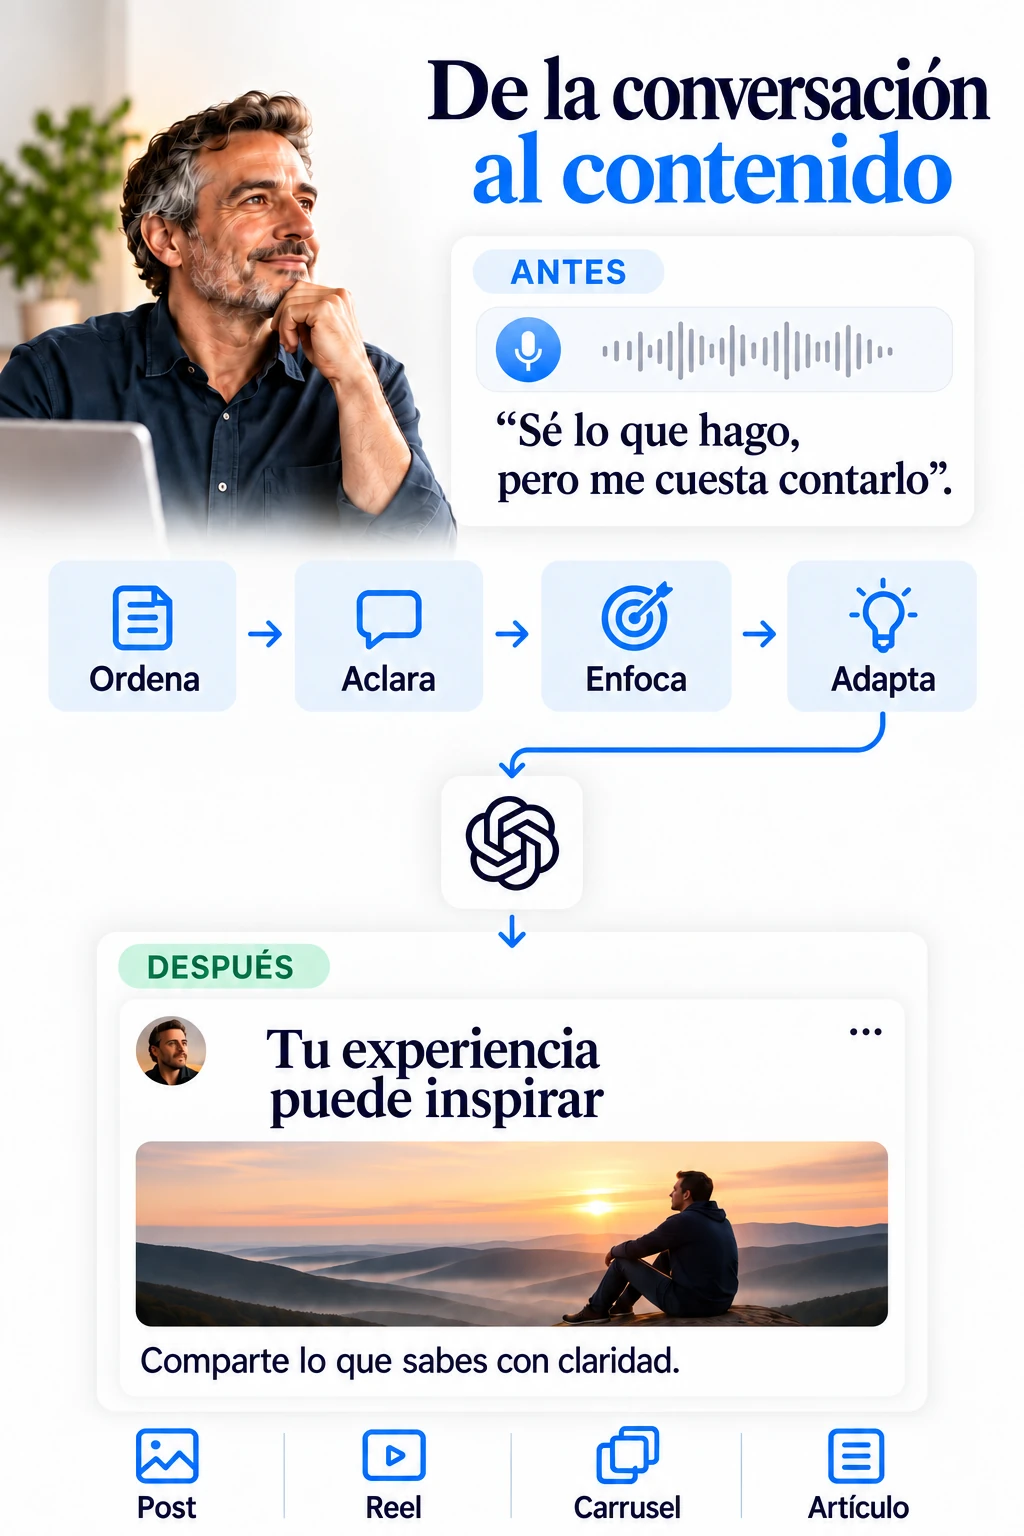
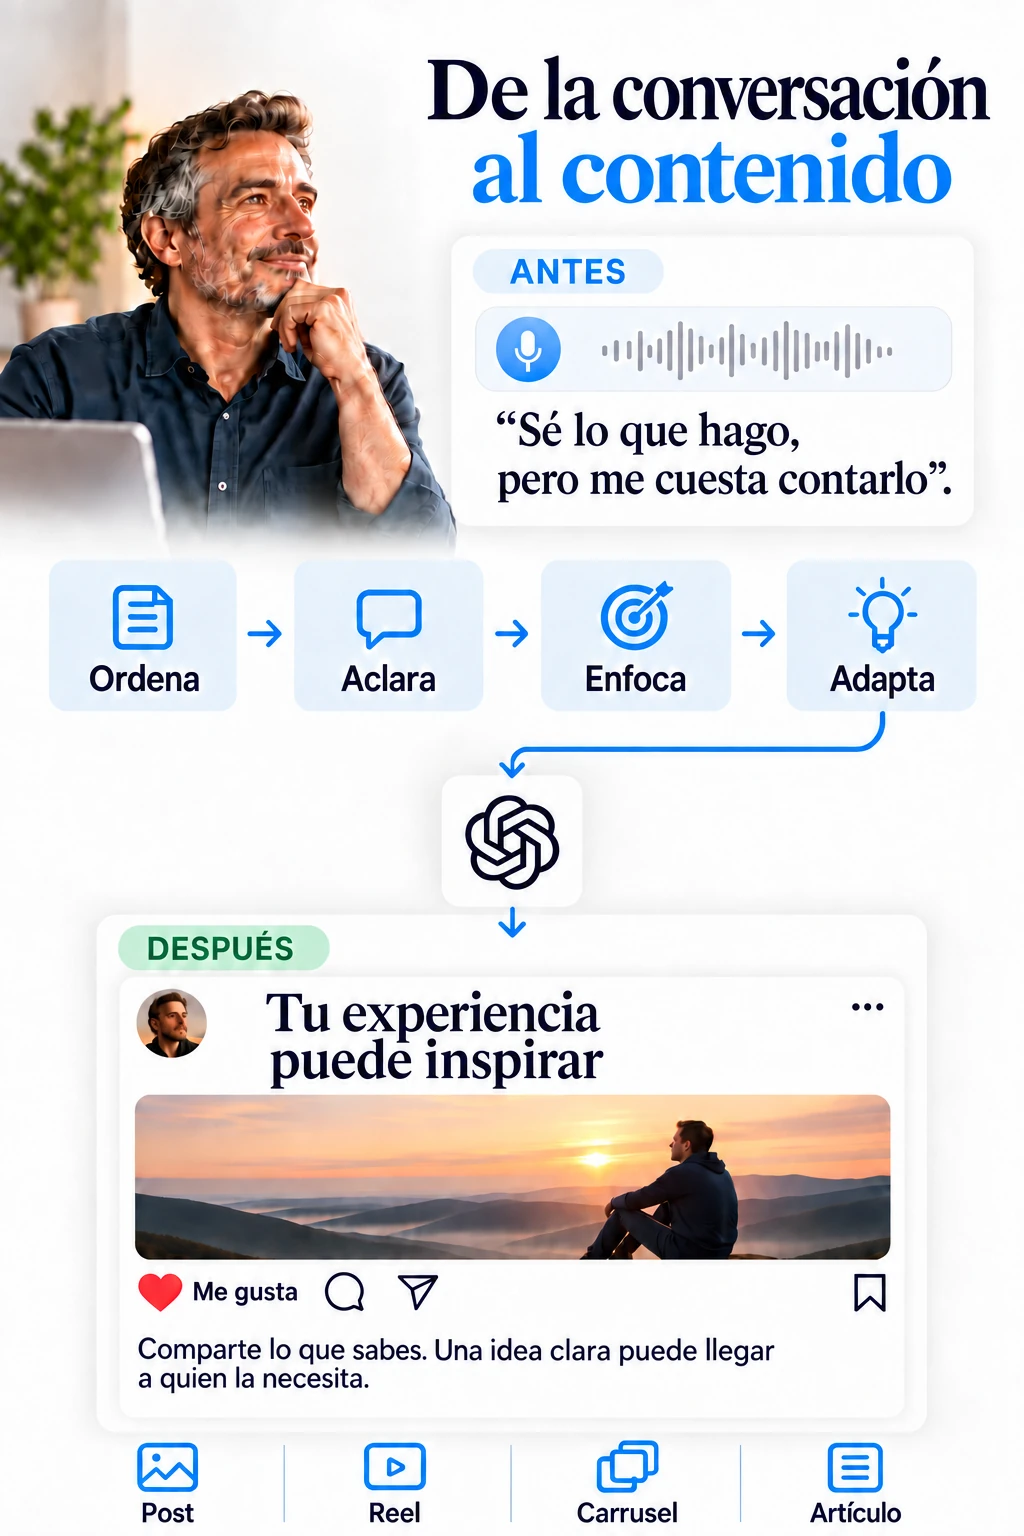
Show Instagram post result in first example

diff --git a/index.html b/index.html
@@ -33,7 +33,7 @@ section{padding:82px 0;border-top:1px solid var(--line)}.section-head{max-width:
 <section id="ayuda"><div class="wrap"><div class="section-head"><div class="eyebrow">Lo que hago</div><h2>Cómo puedo ayudarte</h2><p>No parto de una herramienta. Parto de lo que necesitas explicar, crear, ordenar o mejorar.</p></div><div class="two reveal"><div class="panel"><h3>Comunicación + Contenido + IA</h3><div class="services"><div class="service"><h3>Comunicación</h3><p>Aclaro el mensaje, ordeno la estructura y ajusto el tono para que lo que haces se entienda mejor.</p></div><div class="service"><h3>Contenido</h3><p>Convierto ideas, entrevistas, clases o documentos en piezas útiles para publicar: guiones, publicaciones y videos, desde la idea hasta la edición final.</p></div><div class="service"><h3>Procesos</h3><p>Reviso tareas repetitivas y flujos que podrían hacerse de una forma más simple.</p></div></div></div><div class="panel speaker"><div class="eyebrow">Conferencia + Taller</div><div class="mini"><h3>Después del quiebre</h3><p>Una conferencia sobre cambio, reconstrucción y rumbo.</p></div><div class="mini"><h3>Método R4</h3><p>Un taller práctico para llevar esa conversación a decisiones concretas.</p></div><a class="btn btn-primary" href="#contacto">Consultar conferencia y taller</a></div></div></div></section>
 <section class="blue-section" id="trabajo"><canvas class="network-canvas" aria-hidden="true"></canvas><div class="wrap"><div class="section-head"><div class="eyebrow">Cómo trabajo</div><h2>Primero, entender</h2><p>Trabajo con el Método R4 para ordenar el problema antes de actuar.</p></div><div class="flow reveal"><div class="step"><b>R1 · Reconocer</b><h3>¿Qué está pasando realmente?</h3><p>Entendemos qué cambió, qué no funciona y dónde aparece la fricción.</p></div><div class="step"><b>R2 · Rescatar</b><h3>¿Con qué contamos hoy?</h3><p>Revisamos lo que ya existe, funciona y puede aprovecharse.</p></div><div class="step"><b>R3 · Redefinir</b><h3>¿Qué queremos conseguir ahora?</h3><p>Definimos hacia dónde vale la pena ir con la realidad y los recursos actuales.</p></div><div class="step"><b>R4 · Actuar</b><h3>¿Cuál es el siguiente paso?</h3><p>Convertimos la claridad en una acción concreta: contenido, video, mejora de proceso o automatización.</p></div></div><a class="btn btn-light" href="https://wa.me/573153999299?text=Hola%2C%20Santiago.%20Quiero%20agendar%20una%20conversaci%C3%B3n%20de%2030%20minutos%20para%20contarte%20qu%C3%A9%20est%C3%A1%20pasando%20en%20mi%20negocio." target="_blank" rel="noopener">Hablemos por WhatsApp</a></div></section>
 <section id="recorrido"><div class="wrap"><div class="section-head"><div class="eyebrow">Recorre las demos</div><h2>De una conversación a algo funcionando</h2><p>No necesitas llegar con la solución definida. Empezamos por entender el problema y avanzamos por etapas concretas.</p></div><div class="journey"><article class="journey-step reveal"><div class="journey-num">01</div><div class="journey-copy"><h3>Conversamos 30 minutos</h3><p>Me cuentas qué estás intentando hacer, dónde se traba y qué resultado necesitas.</p></div><div class="journey-visual"><div class="mock-window"><div class="mock-top"><i></i><i></i><i></i></div><div class="chat-body"><div class="chat-row"><div class="chat-avatar"></div><div class="chat-msg"></div></div><div class="chat-row me"><div class="chat-msg"></div></div><div class="chat-row"><div class="chat-avatar"></div><div class="chat-msg"></div></div></div><div class="tag-strip"><span>Contexto</span><span>Problema</span><span>Objetivo</span></div></div></div></article><article class="journey-step reveal"><div class="journey-num">02</div><div class="journey-copy"><h3>Ordenamos con R4</h3><p>Reconocemos qué pasa, rescatamos lo que ya sirve, redefinimos el rumbo y elegimos el siguiente paso.</p></div><div class="journey-visual"><div class="mock-window"><div class="mock-top"><i></i><i></i><i></i></div><div class="r4-board"><div class="r4-mini"><b>R1 · Reconocer</b><span></span><span></span></div><div class="r4-mini"><b>R2 · Rescatar</b><span></span><span></span></div><div class="r4-mini"><b>R3 · Redefinir</b><span></span><span></span></div><div class="r4-mini"><b>R4 · Actuar</b><span></span><span></span></div></div></div></div></article><article class="journey-step reveal"><div class="journey-num">03</div><div class="journey-copy"><h3>Construimos una primera versión</h3><p>Puede ser un guion, una pieza de contenido, un video o una mejora concreta de proceso.</p></div><div class="journey-visual"><div class="mock-window"><div class="mock-top"><i></i><i></i><i></i></div><div class="workspace"><div class="script-card"><b>Guion / contenido</b><div class="script-line"></div><div class="script-line"></div><div class="script-line"></div></div><div class="video-card"><div class="play">▶</div><div class="timeline-mini"></div></div></div></div></div></article><article class="journey-step reveal"><div class="journey-num">04</div><div class="journey-copy"><h3>Probamos, ajustamos y decides</h3><p>Antes de construir de más, vemos qué funciona y qué vale la pena llevar a una versión final.</p></div><div class="journey-visual"><div class="mock-window"><div class="mock-top"><i></i><i></i><i></i></div><div class="review-board"><div class="review-row"><strong>Versión 1</strong><div class="bar" style="--w:52%"></div><div class="ok">1</div></div><div class="review-row"><strong>Ajuste</strong><div class="bar" style="--w:76%"></div><div class="ok">2</div></div><div class="review-row"><strong>Validado</strong><div class="bar" style="--w:100%"></div><div class="ok">✓</div></div></div></div></div></article></div></div></section>
-<section class="blue-section" id="ejemplos"><canvas class="network-canvas" aria-hidden="true"></canvas><div class="wrap"><div class="section-head"><div class="eyebrow">Ejemplos</div><h2>Mira lo que puede cambiar</h2><p>Tres ejemplos de lo que podemos hacer a partir de una necesidad concreta.</p></div><div class="examples reveal"><article class="example"><div class="example-visual" style="height:auto;aspect-ratio:9/16;padding:12px;background:#F4F7F8"><a href="assets/una-conversacion-contenido-flujo.webp?v=39300238" target="_blank" rel="noopener" aria-label="Ampliar el ejemplo de conversación a contenido" style="display:block;width:100%;height:100%"><img src="assets/una-conversacion-contenido-flujo.webp?v=39300238" alt="De la conversación al contenido: Ordena, Aclara, Enfoca y Adapta; después ChatGPT ayuda a crear post, reel, carrusel y artículo" loading="lazy" decoding="async" style="display:block;width:100%;height:100%;object-fit:contain"></a></div></article><article class="example"><div class="example-visual" style="height:auto;aspect-ratio:9/16;background:#0A2540"><video controls playsinline preload="metadata" poster="assets/ejemplo-pagina-web-poster.jpg" aria-label="Ejemplo de una idea convertida en una página web" style="display:block;width:100%;height:100%;object-fit:contain"><source src="assets/ejemplo-pagina-web.mp4?v=53d35bca" type="video/mp4">Tu navegador no puede reproducir este video.</video></div></article><article class="example"><div class="example-visual time-visual" role="img" aria-label="Tiempos aproximados según la experiencia de Santiago. Boletín diario de Noticias del SENA: antes al menos 2 horas, ahora unos 15 minutos. Acta semanal del Consejo de Redacción: antes al menos 3 horas, ahora entre 10 y 20 minutos."><div class="time-heading">Procesos del SENA <span>Antes → Ahora</span></div><div class="time-case"><h3>Boletín diario de noticias</h3><div class="time-row"><span>Antes</span><div class="time-track"><i style="width:67%"></i></div><strong>≥ 2 h</strong></div><div class="time-row current"><span>Ahora</span><div class="time-track"><i style="width:8.3%"></i></div><strong>≈ 15 min</strong></div></div><div class="time-case"><h3>Acta semanal de redacción</h3><div class="time-row"><span>Antes</span><div class="time-track"><i style="width:100%"></i></div><strong>≥ 3 h</strong></div><div class="time-row current"><span>Ahora</span><div class="time-track"><i style="width:11%"></i></div><strong>10–20 min</strong></div></div><div class="time-footer"><span>⏱ Tiempos aproximados</span><span>✓ Revisión final</span></div></div></article></div></div></section>
+<section class="blue-section" id="ejemplos"><canvas class="network-canvas" aria-hidden="true"></canvas><div class="wrap"><div class="section-head"><div class="eyebrow">Ejemplos</div><h2>Mira lo que puede cambiar</h2><p>Tres ejemplos de lo que podemos hacer a partir de una necesidad concreta.</p></div><div class="examples reveal"><article class="example"><div class="example-visual" style="height:auto;aspect-ratio:9/16;padding:12px;background:#F4F7F8"><a href="assets/una-conversacion-contenido-flujo.webp?v=post-instagram-20260923" target="_blank" rel="noopener" aria-label="Ampliar el ejemplo de conversación a contenido" style="display:block;width:100%;height:100%"><img src="assets/una-conversacion-contenido-flujo.webp?v=post-instagram-20260923" alt="De la conversación al contenido: Ordena, Aclara, Enfoca y Adapta; después ChatGPT ayuda a crear post, reel, carrusel y artículo" loading="lazy" decoding="async" style="display:block;width:100%;height:100%;object-fit:contain"></a></div></article><article class="example"><div class="example-visual" style="height:auto;aspect-ratio:9/16;background:#0A2540"><video controls playsinline preload="metadata" poster="assets/ejemplo-pagina-web-poster.jpg" aria-label="Ejemplo de una idea convertida en una página web" style="display:block;width:100%;height:100%;object-fit:contain"><source src="assets/ejemplo-pagina-web.mp4?v=53d35bca" type="video/mp4">Tu navegador no puede reproducir este video.</video></div></article><article class="example"><div class="example-visual time-visual" role="img" aria-label="Tiempos aproximados según la experiencia de Santiago. Boletín diario de Noticias del SENA: antes al menos 2 horas, ahora unos 15 minutos. Acta semanal del Consejo de Redacción: antes al menos 3 horas, ahora entre 10 y 20 minutos."><div class="time-heading">Procesos del SENA <span>Antes → Ahora</span></div><div class="time-case"><h3>Boletín diario de noticias</h3><div class="time-row"><span>Antes</span><div class="time-track"><i style="width:67%"></i></div><strong>≥ 2 h</strong></div><div class="time-row current"><span>Ahora</span><div class="time-track"><i style="width:8.3%"></i></div><strong>≈ 15 min</strong></div></div><div class="time-case"><h3>Acta semanal de redacción</h3><div class="time-row"><span>Antes</span><div class="time-track"><i style="width:100%"></i></div><strong>≥ 3 h</strong></div><div class="time-row current"><span>Ahora</span><div class="time-track"><i style="width:11%"></i></div><strong>10–20 min</strong></div></div><div class="time-footer"><span>⏱ Tiempos aproximados</span><span>✓ Revisión final</span></div></div></article></div></div></section>
 <section id="sobre-mi"><div class="wrap about reveal"><div class="portrait"><img data-photo="about" alt="Santiago Correa" loading="lazy" decoding="async"></div><div><div class="eyebrow">Sobre mí</div><h2>Santiago Correa</h2><p>Soy comunicador social y periodista. He trabajado en comunicación institucional, contenido, producción audiovisual y formación.</p><p>Hoy combino esa experiencia con herramientas de inteligencia artificial para ayudar a profesionales, negocios y organizaciones a comunicar mejor, aprovechar lo que ya saben y simplificar procesos.</p><p>En 2008, un aneurisma cerebral y un ACV hemorrágico cambiaron mi manera de comunicarme, trabajar y entender el cambio. De esa experiencia nació también mi trabajo como conferencista y el Método R4.</p></div></div></section>
 <section class="blue-section contact" id="contacto"><canvas class="network-canvas" aria-hidden="true"></canvas><div class="wrap contact-grid reveal"><div><div class="eyebrow">Siguiente paso</div><h2>Hablemos</h2><p>Cuéntame qué necesitas. Luego agendamos una reunión de 30 minutos.</p><div class="actions"><a class="btn btn-primary" href="https://wa.me/573153999299?text=Hola%2C%20Santiago.%20Vi%20tu%20p%C3%A1gina%20y%20quiero%20contarte%20qu%C3%A9%20necesito." target="_blank" rel="noopener">Hablemos por WhatsApp</a></div></div><div class="faq"><details><summary>¿Necesito saber exactamente qué necesito?</summary><p>No. Parte de la primera conversación consiste justamente en ordenar el problema y entender qué vale la pena resolver.</p></details><details><summary>¿Cuánto cuesta?</summary><p>Depende del alcance. La conversación inicial de 30 minutos no tiene costo. Si tiene sentido avanzar, te envío una propuesta clara con precio, entregables y tiempos antes de empezar.</p></details><details><summary>¿Me puedes pasar un presupuesto sin hacer una reunión?</summary><p>No. Primero hacemos una reunión de 30 minutos para entender el caso. Después te envío una propuesta con alcance, precio, entregables y tiempos.</p></details><details><summary>¿Cuánto tarda y cuánto tiempo me exige a mí?</summary><p>Depende del proyecto. Antes de empezar definimos el cronograma. Tu participación se concentra en aportar contexto, validar decisiones clave y revisar la versión que construimos.</p></details><details><summary>¿Sirve para mi rubro o solo para empresas grandes?</summary><p>Trabajo con profesionales, emprendimientos, pequeñas empresas y organizaciones. Lo importante no es el tamaño, sino que exista un problema concreto de comunicación, contenido o proceso que valga la pena resolver.</p></details><details><summary>¿Qué pasa si algo falla o no funciona como esperaba?</summary><p>Por eso prefiero probar en pequeño antes de construir de más. Revisamos qué falló, ajustamos y decidimos si vale la pena continuar, cambiar el enfoque o detenernos.</p></details><details><summary>¿Trabajas solo con inteligencia artificial?</summary><p>No. La IA es una herramienta dentro del proceso. Primero revisamos qué necesitas y luego vemos si realmente tiene sentido usarla.</p></details></div></div></section>
 <footer><div class="wrap">© 2026 Santiago Correa · Comunicación + Contenido + IA · Conferencia + Taller</div></footer>
